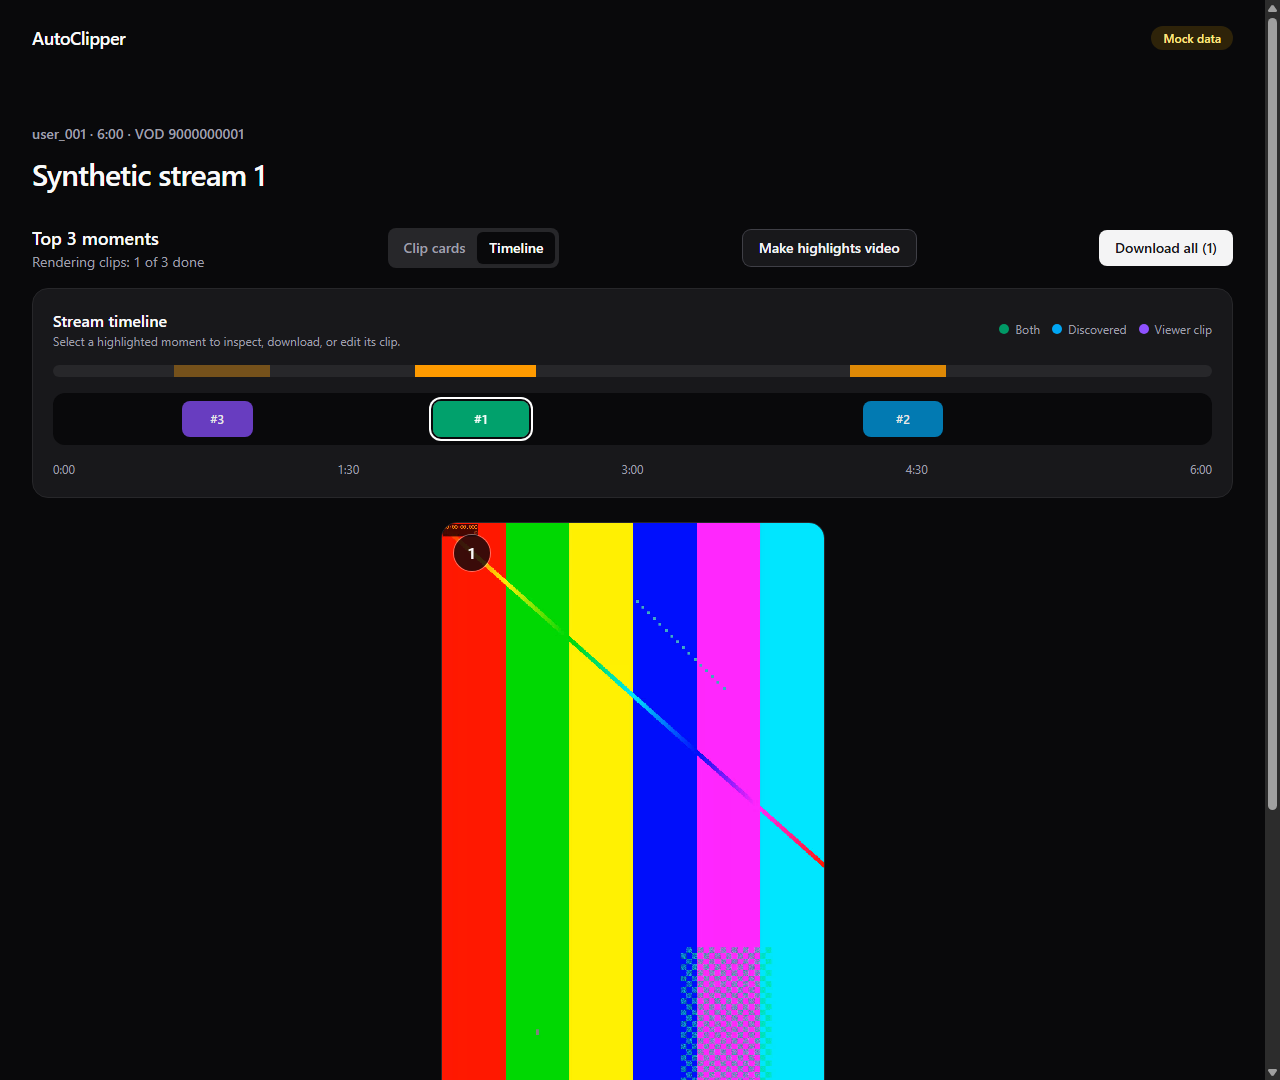
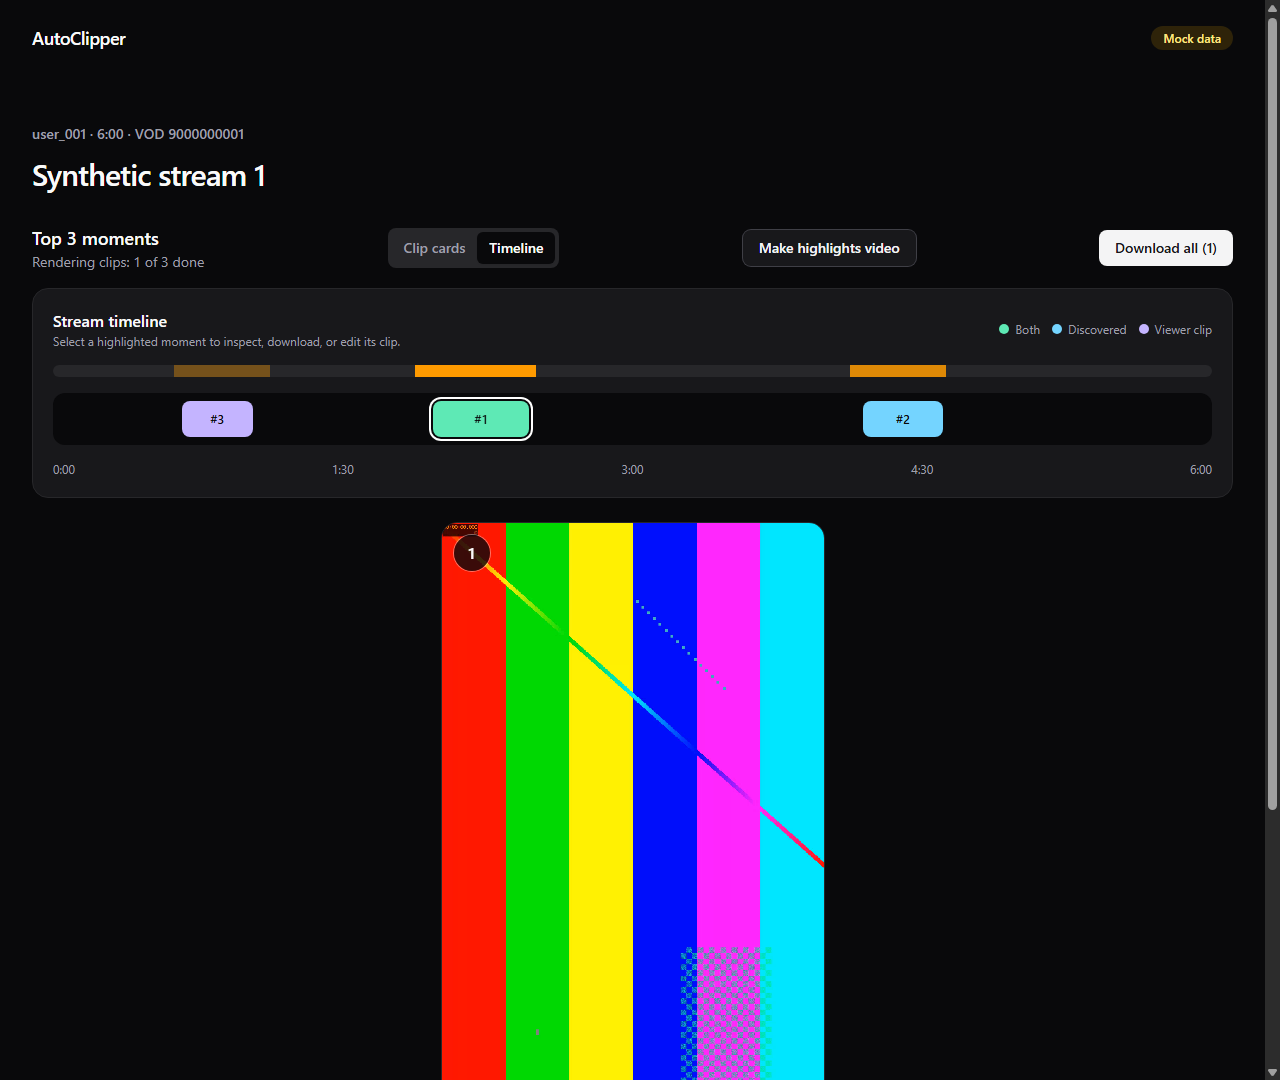
fix(web): address review findings on timeline lane packing, tick alignment, card reset, and AA contrast

diff --git a/web/src/components/stream-timeline.tsx b/web/src/components/stream-timeline.tsx
@@ -10,12 +10,13 @@ import { formatTime } from "@/lib/format";
 import { reasonFor } from "@/lib/reason";
 import { buildActivityBins, layoutTimelineMarkers } from "@/lib/timeline";
 
+// WCAG AA (>= 4.5:1) foreground/background pairs in both light and dark themes.
 const MARKER_STYLE: Record<Candidate["source"], string> = {
   discovered:
-    "bg-sky-500/90 text-white hover:bg-sky-500 dark:bg-sky-500/80 dark:hover:bg-sky-400",
+    "bg-sky-700 text-white hover:bg-sky-800 dark:bg-sky-300 dark:text-zinc-950 dark:hover:bg-sky-200",
   viewer_clips:
-    "bg-violet-500/90 text-white hover:bg-violet-500 dark:bg-violet-500/80 dark:hover:bg-violet-400",
-  both: "bg-emerald-600/90 text-white hover:bg-emerald-600 dark:bg-emerald-500/85 dark:hover:bg-emerald-400",
+    "bg-violet-700 text-white hover:bg-violet-800 dark:bg-violet-300 dark:text-zinc-950 dark:hover:bg-violet-200",
+  both: "bg-emerald-700 text-white hover:bg-emerald-800 dark:bg-emerald-300 dark:text-zinc-950 dark:hover:bg-emerald-200",
 };
 
 const LANE_HEIGHT_PX = 36;
@@ -74,21 +75,21 @@ export function StreamTimeline({
             <span className="inline-flex items-center gap-1.5">
               <span
                 aria-hidden="true"
-                className="size-2.5 rounded-full bg-emerald-600"
+                className="size-2.5 rounded-full bg-emerald-700 dark:bg-emerald-300"
               />
               Both
             </span>
             <span className="inline-flex items-center gap-1.5">
               <span
                 aria-hidden="true"
-                className="size-2.5 rounded-full bg-sky-500"
+                className="size-2.5 rounded-full bg-sky-700 dark:bg-sky-300"
               />
               Discovered
             </span>
             <span className="inline-flex items-center gap-1.5">
               <span
                 aria-hidden="true"
-                className="size-2.5 rounded-full bg-violet-500"
+                className="size-2.5 rounded-full bg-violet-700 dark:bg-violet-300"
               />
               Viewer clip
             </span>
@@ -140,10 +141,10 @@ export function StreamTimeline({
                   top: `${topPx}px`,
                   height: `${LANE_HEIGHT_PX}px`,
                 }}
-                className={`absolute flex items-center justify-center overflow-hidden rounded-lg px-1.5 text-xs font-semibold transition focus-visible:z-20 focus-visible:ring-2 focus-visible:ring-amber-500 focus-visible:outline-none ${MARKER_STYLE[candidate.source]} ${
+                className={`absolute box-border flex min-w-0 items-center justify-center overflow-hidden rounded-lg px-0.5 text-xs font-semibold transition focus-visible:z-20 focus-visible:ring-2 focus-visible:ring-amber-500 focus-visible:outline-none ${MARKER_STYLE[candidate.source]} ${
                   isSelected
                     ? "z-10 ring-2 ring-zinc-950 ring-offset-2 ring-offset-zinc-50 dark:ring-white dark:ring-offset-zinc-950"
-                    : "opacity-90"
+                    : ""
                 }`}
               >
                 <span className="truncate tabular-nums">#{candidate.rank}</span>
@@ -152,11 +153,25 @@ export function StreamTimeline({
           })}
         </div>
 
-        {/* Stream time axis ticks */}
-        <div className="flex items-center justify-between text-xs text-zinc-500 tabular-nums dark:text-zinc-400">
-          {layout.ticks.map((tick, index) => (
-            <span key={index}>{formatTime(tick)}</span>
-          ))}
+        {/* Stream time axis ticks anchored to the exact marker percentage scale */}
+        <div className="relative h-4 w-full text-xs text-zinc-500 tabular-nums dark:text-zinc-400">
+          {layout.ticks.map((tick) => {
+            const align =
+              tick.pct === 0
+                ? ""
+                : tick.pct === 100
+                  ? "-translate-x-full"
+                  : "-translate-x-1/2";
+            return (
+              <span
+                key={tick.pct}
+                style={{ left: `${tick.pct}%` }}
+                className={`absolute top-0 whitespace-nowrap ${align}`}
+              >
+                {formatTime(tick.seconds)}
+              </span>
+            );
+          })}
         </div>
       </div>
 
@@ -164,6 +179,7 @@ export function StreamTimeline({
         <div className="mx-auto w-full max-w-sm">
           <ol role="list">
             <ClipCard
+              key={selected.candidate.candidate_id}
               jobId={jobId}
               candidate={selected.candidate}
               scoreFraction={selected.scoreFraction}

diff --git a/web/src/components/stream-timeline.test.tsx b/web/src/components/stream-timeline.test.tsx
@@ -3,8 +3,9 @@
 import { cleanup, fireEvent, render, screen } from "@testing-library/react";
 import { afterEach, describe, expect, it, vi } from "vitest";
 
+import type { ClipExport } from "@/components/clip-card";
 import { StreamTimeline } from "@/components/stream-timeline";
-import type { Candidate } from "@/lib/api/types";
+import type { Candidate, Export } from "@/lib/api/types";
 
 const OVERLAPPING_CANDIDATES: Candidate[] = [
   {
@@ -38,6 +39,28 @@ const OVERLAPPING_CANDIDATES: Candidate[] = [
     top_signals: [],
   },
 ];
+
+function readyClip(candidate: Candidate): ClipExport {
+  const exp: Export = {
+    export_id: `exp_${candidate.candidate_id}`,
+    job_id: "job_1",
+    candidate_id: candidate.candidate_id,
+    video_id: "9000000001",
+    start_s: candidate.start_s,
+    end_s: candidate.end_s,
+    layout: "center_crop",
+    captions: true,
+    state: "done",
+    progress: null,
+    error: null,
+    download_url: `/mock-media/${candidate.candidate_id}.mp4`,
+    created_at: "2026-11-20T12:00:00Z",
+    started_at: "2026-11-20T12:00:01Z",
+    updated_at: "2026-11-20T12:00:02Z",
+    finished_at: "2026-11-20T12:00:02Z",
+  };
+  return { kind: "export", export: exp, url: exp.download_url };
+}
 
 describe("StreamTimeline", () => {
   afterEach(() => {
@@ -94,5 +117,46 @@ describe("StreamTimeline", () => {
     expect(
       screen.getByRole("link", { name: /Edit clip 2/ }).getAttribute("href"),
     ).toBe("/jobs/job_1/results/c002");
+  });
+
+  it("resets video error state when switching from a failed preview to another clip", () => {
+    const clips: Record<string, ClipExport> = {
+      c001: readyClip(OVERLAPPING_CANDIDATES[0]),
+      c002: readyClip(OVERLAPPING_CANDIDATES[1]),
+    };
+
+    const { rerender } = render(
+      <StreamTimeline
+        jobId="job_1"
+        videoId="9000000001"
+        durationS={360}
+        candidates={OVERLAPPING_CANDIDATES}
+        selectedId="c001"
+        onSelect={vi.fn()}
+        clips={clips}
+        onRetry={vi.fn()}
+      />,
+    );
+
+    fireEvent.error(screen.getByLabelText(/^Clip 1,/));
+    expect(screen.getByText(/ready but can't be played here/i)).toBeTruthy();
+
+    rerender(
+      <StreamTimeline
+        jobId="job_1"
+        videoId="9000000001"
+        durationS={360}
+        candidates={OVERLAPPING_CANDIDATES}
+        selectedId="c002"
+        onSelect={vi.fn()}
+        clips={clips}
+        onRetry={vi.fn()}
+      />,
+    );
+
+    expect(screen.queryByText(/ready but can't be played here/i)).toBeNull();
+    expect(screen.getByLabelText(/^Clip 2,/).getAttribute("src")).toBe(
+      "/mock-media/c002.mp4",
+    );
   });
 });

diff --git a/web/src/lib/timeline.test.ts b/web/src/lib/timeline.test.ts
@@ -49,10 +49,11 @@ describe("timeline layout helpers", () => {
     });
   });
 
-  it("enforces minimum clickable marker width without overflowing past 100%", () => {
+  it("enforces minimum clickable marker width and separates visually close short clips", () => {
     const items = [
       candidate("c001", 1, 10, 30, 3.0), // 20s in a 6-hour VOD (~0.09%)
-      candidate("c002", 2, 21580, 21600, 2.0), // right at the VOD's end
+      candidate("c002", 2, 100, 120, 2.5), // visually within c001's 6% min width -> lane 1
+      candidate("c003", 3, 21580, 21600, 2.0), // right at the VOD's end
     ];
 
     const layout = layoutTimelineMarkers(items, 21600);
@@ -62,13 +63,22 @@ describe("timeline layout helpers", () => {
       expect(marker.leftPct).toBeGreaterThanOrEqual(0);
       expect(marker.leftPct + marker.widthPct).toBeLessThanOrEqual(100);
     }
+    expect(layout.markers[0].lane).toBe(0);
+    expect(layout.markers[1].lane).toBe(1);
+    expect(layout.markers[2].lane).toBe(0);
   });
 
-  it("handles negative z-scores and empty candidate lists cleanly", () => {
+  it("handles negative z-scores, aligned tick percentages, and empty lists cleanly", () => {
     expect(layoutTimelineMarkers([], 360)).toEqual({
       markers: [],
       laneCount: 0,
-      ticks: [0, 90, 180, 270, 360],
+      ticks: [
+        { pct: 0, seconds: 0 },
+        { pct: 25, seconds: 90 },
+        { pct: 50, seconds: 180 },
+        { pct: 75, seconds: 270 },
+        { pct: 100, seconds: 360 },
+      ],
     });
 
     const layout = layoutTimelineMarkers(

diff --git a/web/src/lib/timeline.ts b/web/src/lib/timeline.ts
@@ -2,11 +2,14 @@
 
 import type { Candidate } from "@/lib/api/types";
 
-/** Minimum horizontal bar width (% of timeline) so short clips stay clickable on long VODs. */
-export const MIN_MARKER_WIDTH_PCT = 2.0;
+/**
+ * Minimum horizontal bar width (% of timeline) so short clips stay wide enough to show their
+ * rank and stay clickable even on a 320 px viewport (~19 px at 6%).
+ */
+export const MIN_MARKER_WIDTH_PCT = 6.0;
 
 /** Minimum horizontal breathing room (% of timeline) before two markers share a lane. */
-const LANE_GAP_PCT = 0.5;
+const LANE_GAP_PCT = 1.0;
 
 export interface TimelineMarker {
   candidate: Candidate;
@@ -16,10 +19,15 @@ export interface TimelineMarker {
   scoreFraction: number;
 }
 
+export interface TimelineTick {
+  seconds: number;
+  pct: number;
+}
+
 export interface TimelineLayout {
   markers: TimelineMarker[];
   laneCount: number;
-  ticks: number[];
+  ticks: TimelineTick[];
 }
 
 function clamp(value: number, low: number, high: number): number {
@@ -36,9 +44,10 @@ export function layoutTimelineMarkers(
 ): TimelineLayout {
   const safeDuration =
     Number.isFinite(durationS) && durationS > 0 ? durationS : 1;
-  const ticks = [0, 0.25, 0.5, 0.75, 1].map((fraction) =>
-    Math.round(safeDuration * fraction),
-  );
+  const ticks: TimelineTick[] = [0, 25, 50, 75, 100].map((pct) => ({
+    pct,
+    seconds: Math.round((safeDuration * pct) / 100),
+  }));
   if (candidates.length === 0) {
     return { markers: [], laneCount: 0, ticks };
   }
